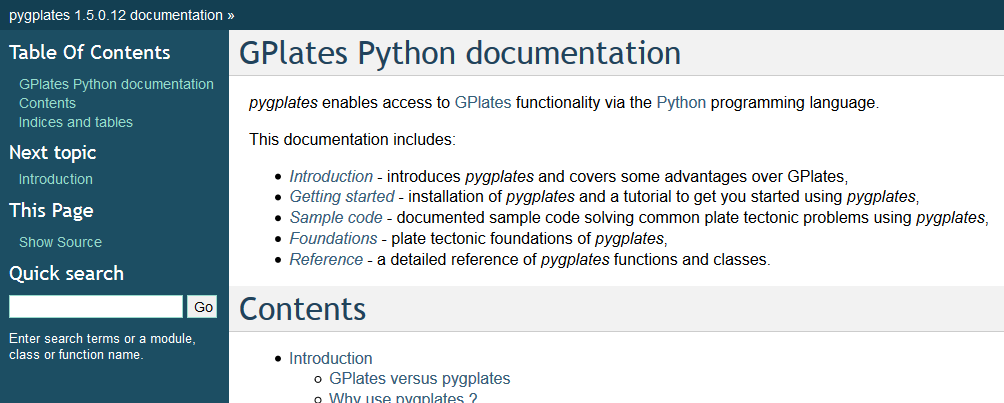
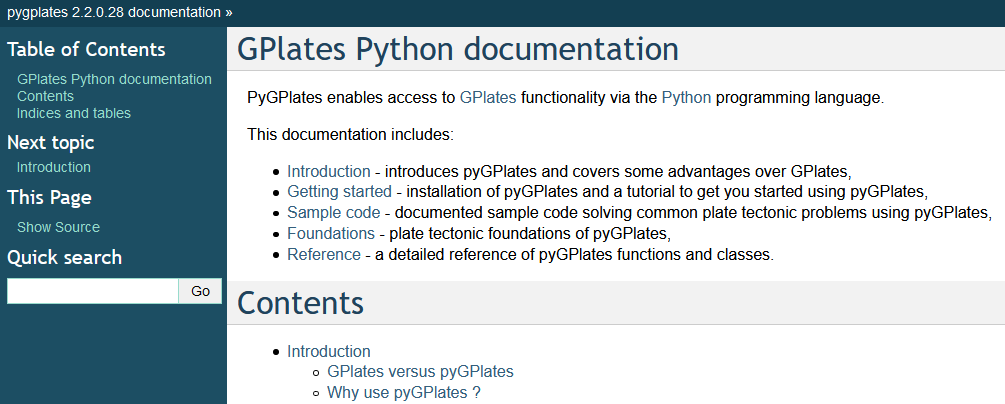
Update news of pyGPlates revision 28 beta release.

diff --git a/news.html b/news.html
@@ -19,6 +19,80 @@
 			<h1>News</h1>
 
 
+			<h2 class="news">2020-08-18: <a id="pygplates_rev28">PyGPlates beta revision 28 released</a></h2>
+			<hr size="4" />
+			<div class="center">
+				<table class="screenshot-row">
+					 <tr>
+						 <td class="thumb">
+							 <a href="docs/pygplates/index.html" title="PyGPlates documentation"><img
+							  src="img/pygplates_doc_contents.png" width="1005" height="404"
+							  alt="PyGPlates documentation"
+							  /></a>
+						 </td>
+				 </tr>
+				</table>
+			</div>
+
+			<p>
+				This pyGPlates beta release adds support for <b>Python 3</b> (in addition to Python 2.7).
+			</p>
+			
+			<p>
+				What's new in pyGPlates revision 28:-
+				<ul>
+					<li>Pre-built pyGPlates libraries for Windows and macOS supporting:
+						<ul>
+							<li>Python 2.7</li>
+							<li>Python 3.5</li>
+							<li>Python 3.6</li>
+							<li>Python 3.7</li>
+							<li>Python 3.8</li>
+						</ul>
+					<li>macOS libraries signed and notarized by Apple:
+						<ul><li>Should no longer get security prompts (including macOS Catalina).</li></ul>
+					</li>
+					<li> Ubuntu packages for 16.04 LTS (Xenial), 18.04 LTS (Bionic), 19.10 (Eoan) and 20.04 LTS (Focal).
+						<ul>
+							<li>Python 2 and 3 (32-bit and 64-bit), except Focal (Python 3 64-bit only).</li>
+						</ul>
+					</li>
+				</ul>
+				<p>
+					Download this release from the <a href="download.html" title="Download GPlates and GPlates-compatible data">Download</a> page.
+				</p>
+			</p>
+
+			<p>
+				The pyGPlates documentation and tutorials are available on the
+				<a href="docs.html" title="User Documentation">User Documentation</a> page and includes:
+				<ul>
+					<li>an introduction to pyGPlates,</li>
+					<li>an installation guide,</li>
+					<li>a 'Getting Started' tutorial,</li>
+					<li>documented sample code,</li>
+					<li>foundations of pyGPlates, and</li>
+					<li>a detailed reference of pyGPlates functions and classes.</li>
+				</ul>
+				<p>
+					The pyGPlates tutorials are Jupyter Notebooks that analyse and visualise real-world data using pyGPlates.
+					These tutorials complement the sample code in the pyGPlates documentation by providing a more research-oriented focus.
+				</p>
+			</p>
+			
+			<p>
+				PyGPlates enables access to GPlates functionality via the <a href="https://www.python.org" title="Python">Python</a> programming language.
+				This may be of particular use to researchers requiring more flexibility than is provided by the GPlates user interface.
+				<p>
+					PyGPlates compiles and runs on Windows 10, macOS 10.9+ and Linux.
+				</p>
+			</p>
+
+			 
+			<div class="blank-space">
+			</div>
+
+
 			<h2 class="news">2019-08-30: <a id="gplates220">GPlates 2.2 released</a></h2>
 			<hr size="4" />
 			<div class="center">
@@ -804,7 +878,7 @@
 					 <tr>
 						 <td class="thumb">
 							 <a href="docs/pygplates/index.html" title="PyGPlates documentation"><img
-							  src="img/pygplates_doc_contents.png" width="1004" height="403"
+							  src="img/pygplates_doc_contents.png" width="1005" height="404"
 							  alt="PyGPlates documentation"
 							  /></a>
 						 </td>
